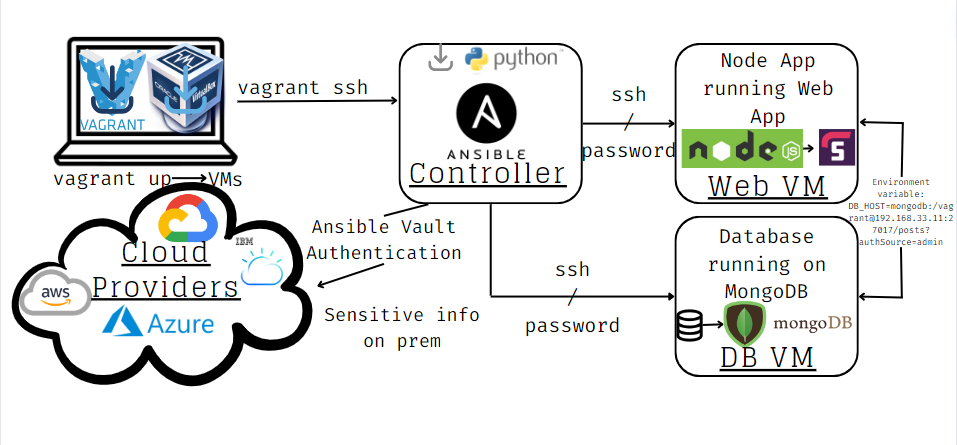
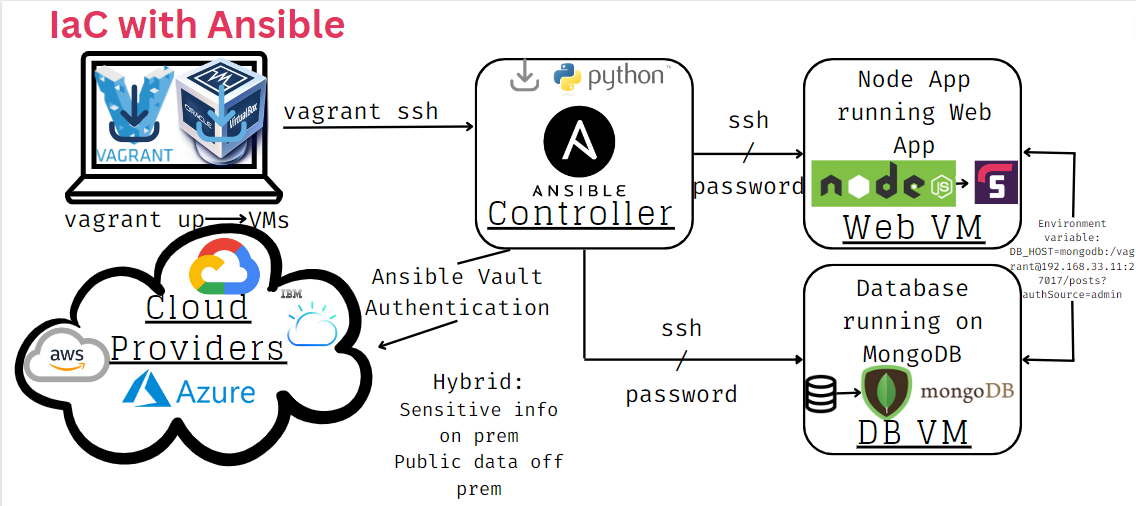
Updated README

Changed region(s): [[0.0, 0.0, 1.0, 0.9933]]

diff --git a/README.md b/README.md
@@ -15,7 +15,7 @@
       - [Ansible Start App Playbook](#ansible-start-app-playbook)
   - [IaC with Terraform](#iac-with-terraform)
     - [Install Terraform on Windows](#install-terraform-on-windows)
-    - [Setup Terraform to interact with AWS](#setup-terraform-to-interact-with-aws)
+    - [Setup Terraform to interact with AWS and launch an EC2](#setup-terraform-to-interact-with-aws-and-launch-an-ec2)
     - [Terraform create two-tier VPC and EC2 instances](#terraform-create-two-tier-vpc-and-ec2-instances)
 
 ## <a id="what-is-iac">What is IaC?</a>
@@ -23,6 +23,8 @@
 Infrastructure as Code (IaC) is a software engineering approach and practice that involves **managing and provisioning computing infrastructure resources automatically** using machine-readable configuration files or scripts. Instead of manually setting up and configuring servers, networks, and other infrastructure components, IaC allows developers and system administrators to define and manage their infrastructure using code.
 
 **Infrastructure code = code that we write for machines to understand.**
+
+![End-to-end IaC](/images/end-to-end-iac.png)
 
 With Infrastructure as Code, the entire infrastructure stack, including servers, networks, storage, and other resources, is described and managed through code<!-- , typically in a declarative or imperative programming language -->. The code defines the desired state of the infrastructure, specifying how it should be provisioned, configured, and deployed. 
 
@@ -199,15 +201,6 @@ sudo nano /etc/ansible/hosts
 # save and exit
 ```
 Ping your hosts/agents:
-<!---
-If you get this error while pinging:
-```bash
-192.168.33.11 | FAILED! => {
-    "msg": "Using a SSH password instead of a key is not possible because Host Key checking is enabled and sshpass does not support this.  Please add this host's fingerprint to your known_hosts file to manage this host."
-}
-```
-Edit: /etc/ansible/ansible.cfg under '[defaults]' uncomment 'host_key_checking = False' and under '[ssh_connection]' paste 'host_key_checking = False' to bypass ssh host checking
---->
 
 ```shell
 # looks for all agents in hosts file and sends ping requests if found and will respond with 'pong' if successful
@@ -238,12 +231,21 @@ yes
 #    "ping": "pong"
 #}
 ```
-<!-- Default ansible file structure:
-/etc/ansible/hosts stores hosts/agents addresses
-/etc/ansible/ansible.conf contains ansibles configurations
+---
+**NOTE:**
 
+If you get this error while pinging:
+```
+192.168.33.11 | FAILED! => {
+    "msg": "Using a SSH password instead of a key is not possible because Host Key checking is enabled and sshpass does not support this.  Please add this host's fingerprint to your known_hosts file to manage this host."
+}
+```
+Edit: `/etc/ansible/ansible.cfg` under '[defaults]' uncomment `host_key_checking = False` and under '[ssh_connection]' paste `host_key_checking = False` to bypass ssh host checking and then ping again. Once ping is successful comment out both `host_key_checking = False` lines in `/etc/ansible/ansible.cfg`.
+
+<!--
 sudo ansible all -m ping --ask-vault-pass
-password: -->
+password:
+-->
 ### <a id="adhoc-commands-with-ansible">Adhoc Commands with Ansible</a>
 
 Adhoc commands typically follow this format: `ansible <target_hosts> -m <module_name> -a "<module_arguments>"`.
@@ -260,7 +262,7 @@ sudo ansible web -a "uname -a"
 # uses ansible to get OS of db host
 sudo ansible db -a "uname -a"
 ```
-Use adhoc command to move files/folders to a target_host(s)
+Use adhoc command to move files/folders to a target_host(s):
 ```bash
 # create a file on controller
 sudo nano test.txt
@@ -283,7 +285,9 @@ Useful module_arguments:
 
 **Playbooks** in Ansible are **written in YAML format** and **describe the desired state of the system or infrastructure** (i.e. **configuration files**). Playbooks consist of a **set of tasks**, where each **task defines a specific action to be performed**, such as installing packages, modifying configurations, or restarting services **to be executed on remote systems**. They are **re-usable** (i.e. **idempotent**) - just need to change the hosts and add keys.
 
-![Ansible Playbooks](/images/playbook.png)
+![Ansible App Playbook](/images/app-playbook-diagram.png)
+
+![Ansible DB Playbook](/images/ansible-db-playbook-diagram.png)
 
 YAML (YAML Ain't Markup Language) is a human-readable data serialization format. It is often used in configuration files, data exchange, and markup languages.
 - indent in YAML = 2 spaces
@@ -591,13 +595,16 @@ Terraform is an **Orchestration tool**. Terraform is an **open-source** infrastr
 
 Provision configuration file configures and deploys on Cloud Platform by any Cloud Service Provider if provided with the correct security permissions.
 
+![Terraform diagram](/images/terraform-diagram.png)
+
 Terraform controls 1 with about 10 lines of code. Ansible would use about 50 lines of code, but could configure thousands at once.
 
 With Terraform, you can describe your desired infrastructure configuration using a domain-specific language (DSL) called HashiCorp Configuration Language (HCL) or JSON. This configuration defines the desired state of your infrastructure, including resources such as virtual machines, networks, storage, security groups, and more.
 
 - .tf execution file
 - Need secret and access keys, have admin access on local machine, use git bash, and know how to set permanent environment variable
-- [Terraform documentation](https://developer.hashicorp.com/terraform/docs)
+
+[Terraform documentation](https://developer.hashicorp.com/terraform/docs)
 
 ### <a id="install-terraform-on-windows">Install Terraform on Windows</a>
 
@@ -628,7 +635,7 @@ With Terraform, you can describe your desired infrastructure configuration using
 
 If you have a different operating system see the following: [Spacelift guide to install Terraform](https://spacelift.io/blog/how-to-install-terraform).
 
-### <a id="Setup-terraform-to-interact-with-aws">Setup Terraform to interact with AWS</a>
+### <a id="Setup-terraform-to-interact-with-aws-and-launch-an-ec2">Setup Terraform to interact with AWS and launch an EC2</a>
 
 1. Add environment variables to account named `AWS_ACCESS_KEY_ID` and `AWS_SECRET_ACCESS_KEY_ID` with their respecitve keys as the variables.
 
@@ -669,18 +676,18 @@ resource "aws_instance" "app_instance"{
 
 }
 ```
-4. `terraform init` - initializes terraform
-5. `terraform plan` - checks code to see what is executable/ if any errors
-6. `terraform apply` - will ask for confirmation `yes` then will launch service (i.e. EC2 instance) outlined in `main.tf`
-7. `terraform destroy` - will ask for confirmation `yes` then terminates service (i.e. EC2 instance) outlined in `main.tf`
+4. `terraform init` - initializes terraform.
+5. `terraform plan` - checks code to see what is executable/ if any errors.
+6. `terraform apply` - will ask for confirmation `yes` then will launch service (i.e. EC2 instance) outlined in `main.tf`.
+7. `terraform destroy` - will ask for confirmation `yes` then terminates service (i.e. EC2 instance) outlined in `main.tf`.
 
 ### <a id="terraform-create-two-tier-vpc-and-ec2-instances">Terraform create two-tier VPC and EC2 instances</a>
 
 [Terraform documentation on VPCs with AWS](https://registry.terraform.io/providers/hashicorp/aws/latest/docs/resources/vpc)
 
-Steps to automate setting up a VPC for a 2-tier architecture deployment of the Sparta Provisioning Test App to display the Sparta home page, /posts page and /fibonacci/10 page using the web app server's public IP address:
+Steps to automate setting up a VPC for a 2-tier architecture deployment of a database and the Sparta Provisioning Test App to display the Sparta home page, /posts page and /fibonacci/10 page using the web app server's public IP address:
 
-1. Create a file called `main.tf` or another name in a folder.
+1. Create a file called `main.tf` or another name in a folder. (If not done already: Add environment variables to account named `AWS_ACCESS_KEY_ID` and `AWS_SECRET_ACCESS_KEY_ID` with their respecitve keys as the variables.)
 2. Write the following template to your terraform file and edit (Remember to change the names of each resource, use appropriate CIDR blocks, and add the AMI IDs and your own IP where needed):
 ```terraform
 # define provider and region
@@ -951,5 +958,5 @@ resource "aws_instance" "web-app-server" {
 3. Initialize your terraform file with `terraform init` or `terraform init -var-file=/path/to/your/terraform-file.tf` (replace with actual path to terraform file).
 4. Check your code with `terraform plan`  or `terraform plan -var-file=/path/to/your/terraform-file.tf` (replace with actual path to terraform file).
 5. If you are satisfied run your code with `terraform apply`  or `terraform apply -var-file=/path/to/your/terraform-file.tf` (replace with actual path to terraform file) and confirm by entering `yes`.
-6. Log in to AWS and get the public IP from your web app EC2 instance and go to the pages of the IP, '/posts' and '/fibonacci/10' of the app in your web browser.
+6. Log in to AWS and get the public IP from your web app EC2 instance and go to the page of the IP, '/posts' and '/fibonacci/10' of the app in your web browser.
 7. If you wish to delete/remove all you added to AWS run `terraform destroy`  or `terraform destroy -var-file=/path/to/your/terraform-file.tf` (replace with actual path to terraform file) and confirm by entering `yes`.
